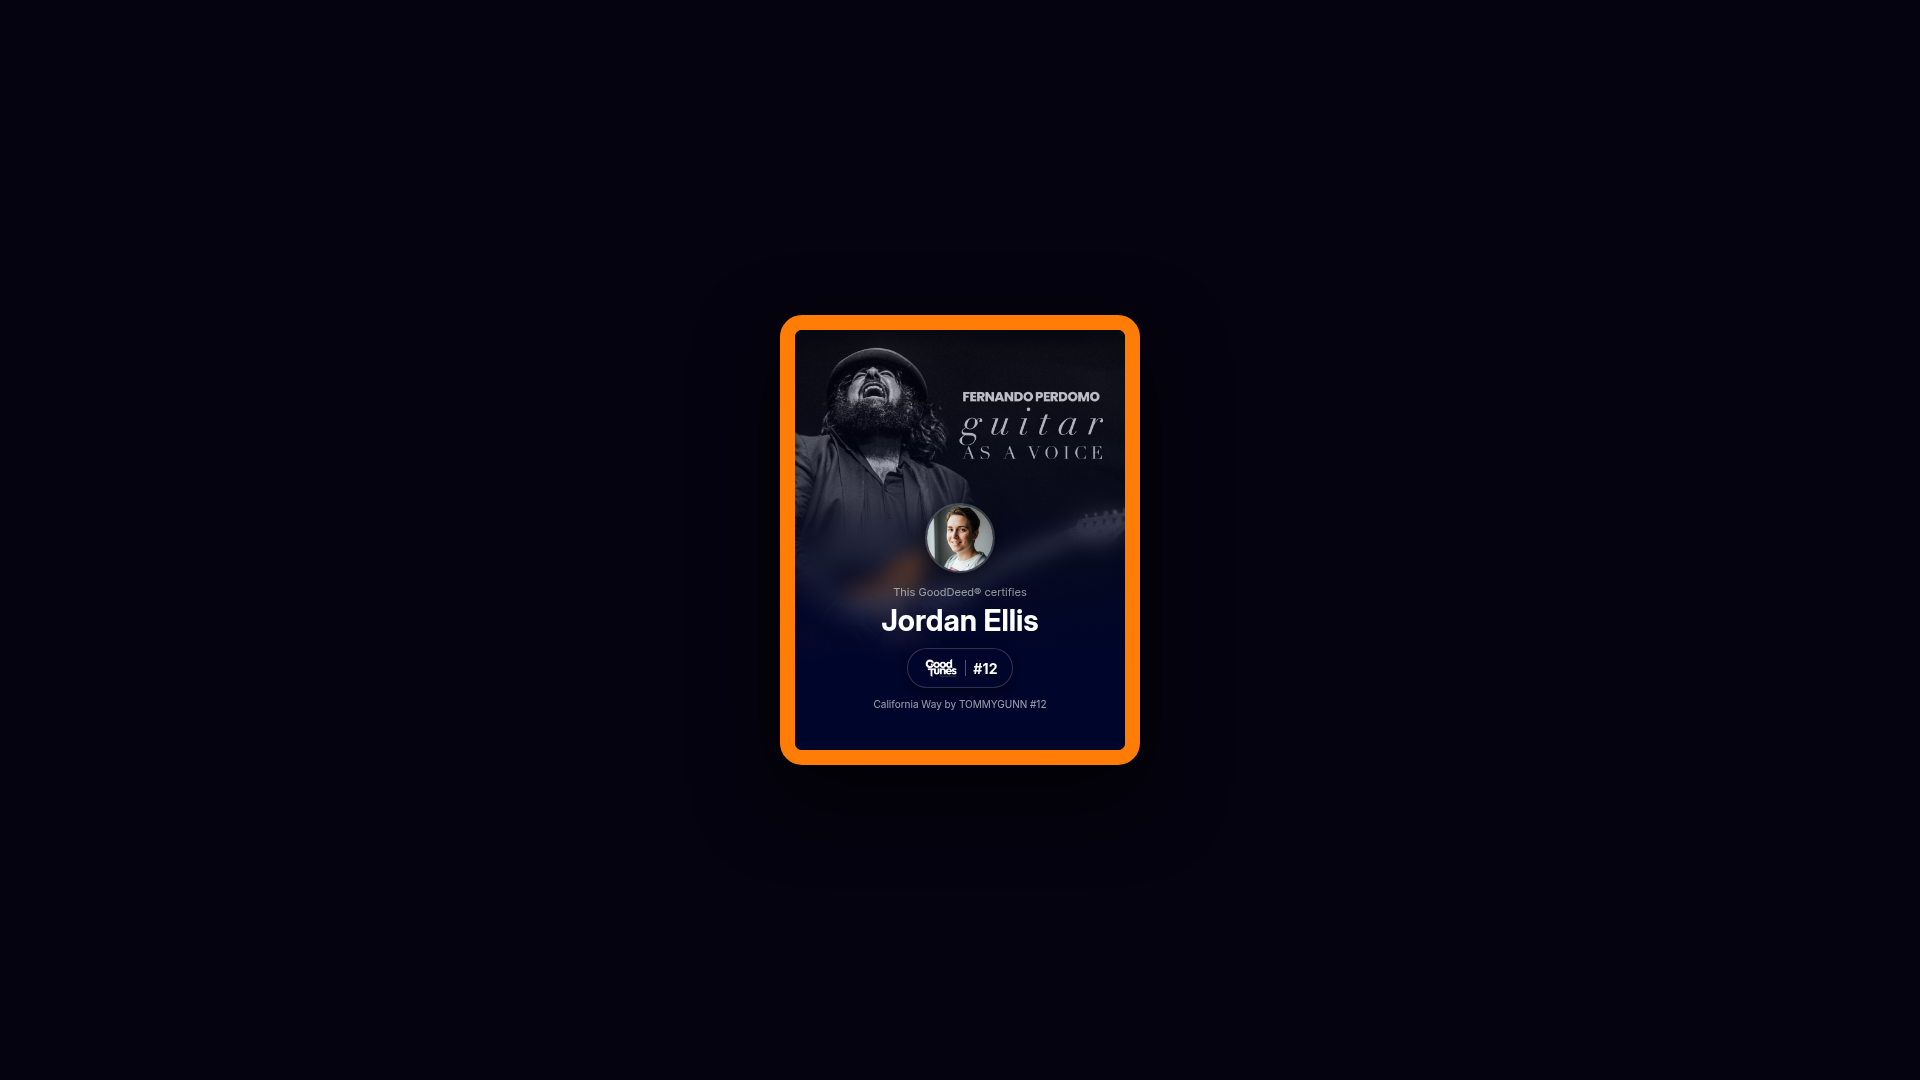
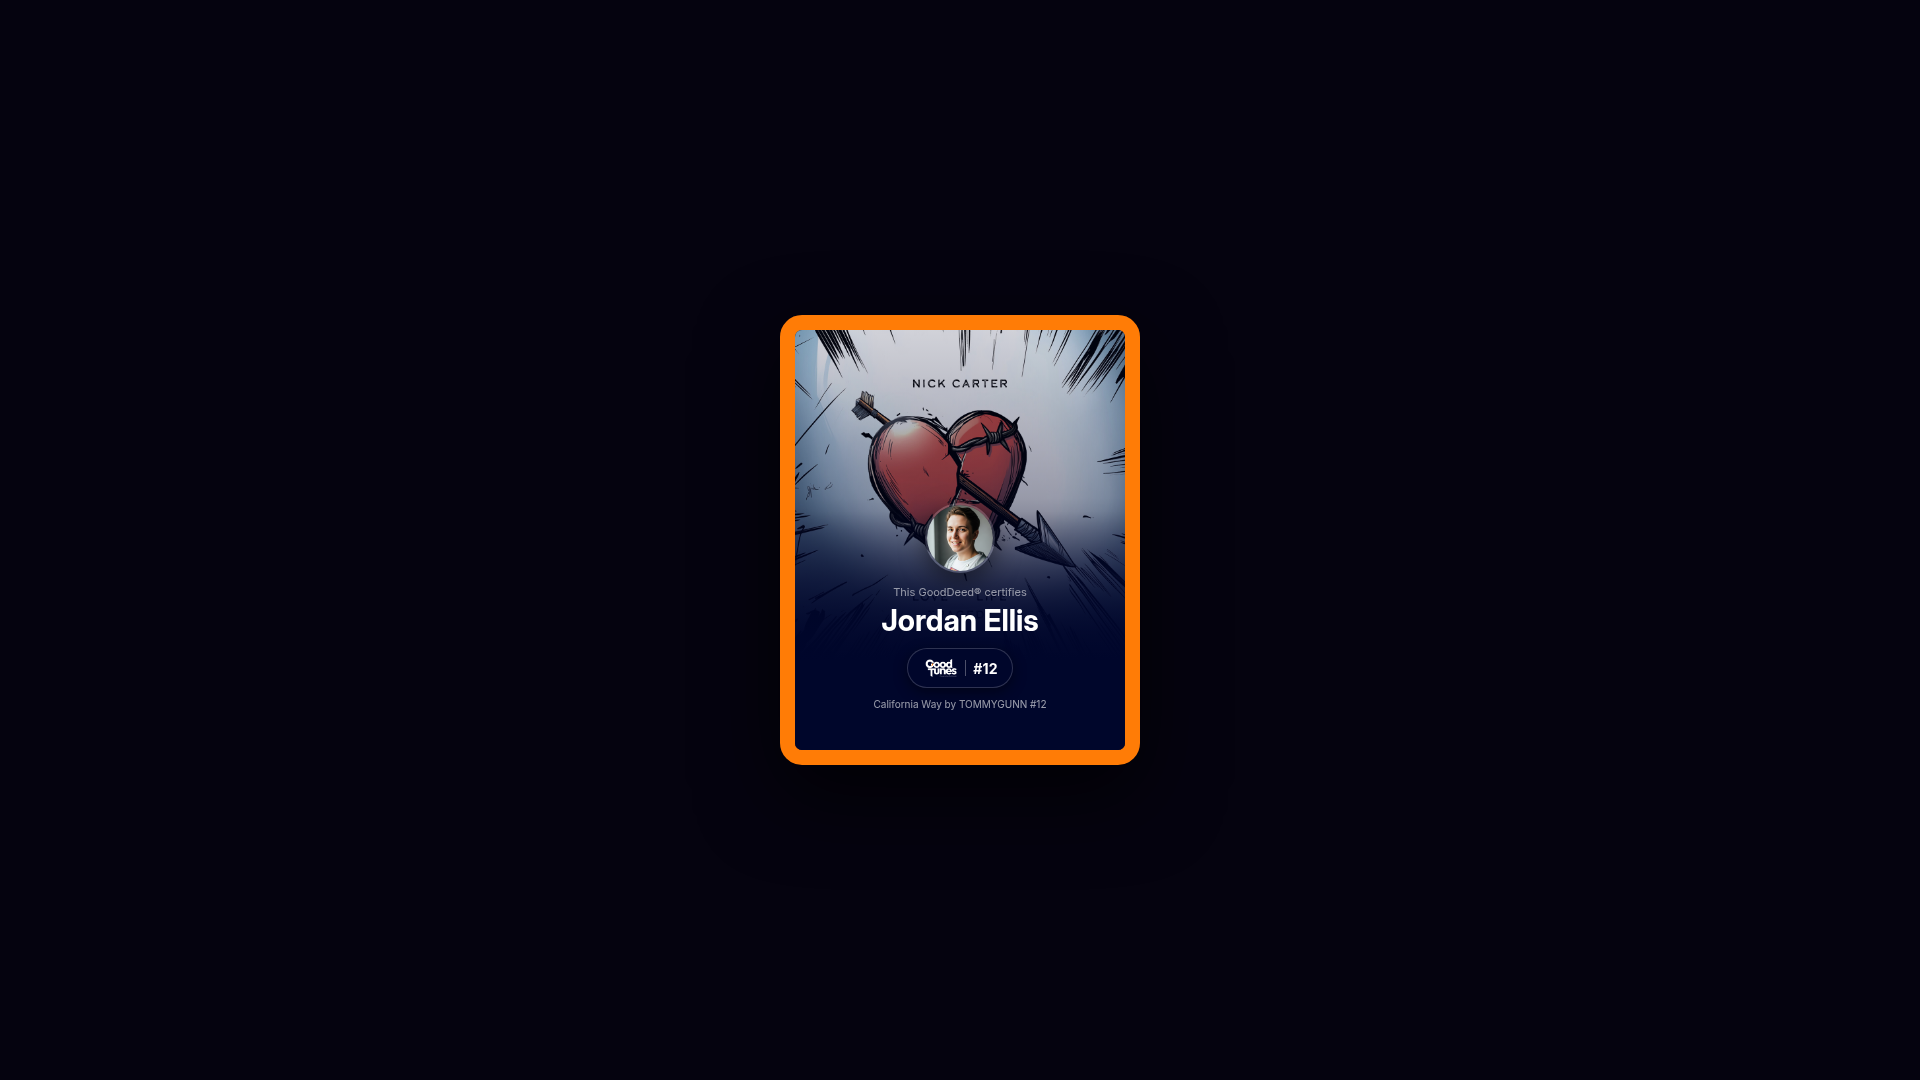
Add Nick Carter's album cover to the D treatment for certificates
Update PortraitBordered.tsx to include the new album cover image and add it to the metadata.

Replit-Commit-Author: Agent
Replit-Commit-Session-Id: 05c2a2e8-5b06-4806-a9d5-d257ed0dfe21
Replit-Commit-Checkpoint-Type: full_checkpoint
Replit-Commit-Event-Id: 6bdae743-f988-4709-8df2-6547505b8fa7
Replit-Commit-Screenshot-Url: https://storage.googleapis.com/screenshot-production-us-central1/5293185b-8e25-4d4f-b8b2-dc5494b9adc6/05c2a2e8-5b06-4806-a9d5-d257ed0dfe21/PAJAbrU
Replit-Helium-Checkpoint-Created: true

Changed region(s): [[0.4062, 0.3056, 0.5938, 0.5806]]

diff --git a/artifacts/mockup-sandbox/src/components/mockups/gooddeed-cert/PortraitBordered.tsx b/artifacts/mockup-sandbox/src/components/mockups/gooddeed-cert/PortraitBordered.tsx
@@ -26,6 +26,7 @@ const GOODTUNES_ORANGE = "var(--brand-orange)";
 const ART: Record<string, string> = {
   california: "/__mockup/images/album-california-way.png",
   guitar: "/__mockup/images/album-guitar-as-a-voice.png",
+  nick: "/__mockup/images/album-nick-love-life-tragedy.jpg",
   sample: "/__mockup/images/sample-album-art.png",
 };
 
